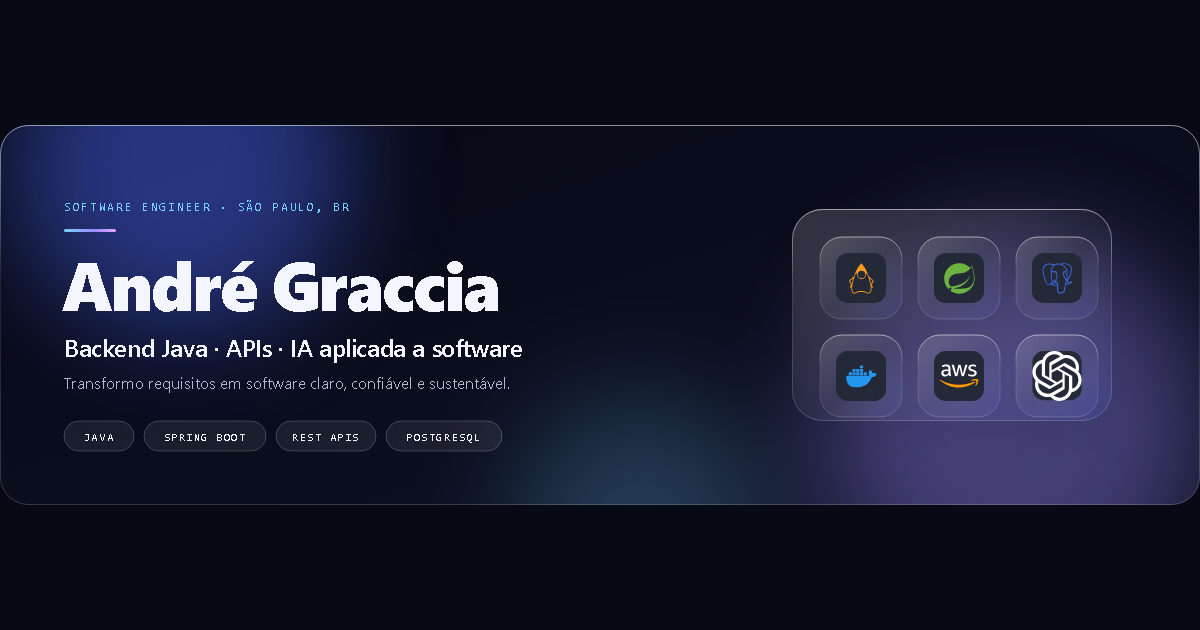
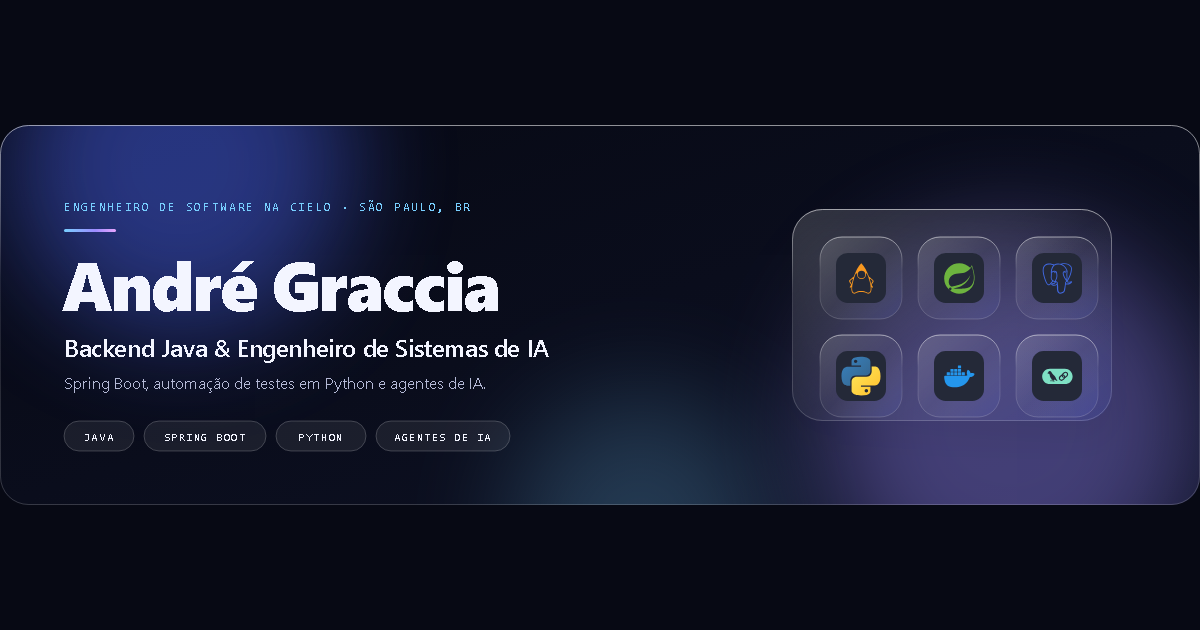
style(assets): hero e projetos alinhados ao currículo, imagem OG para compartilhamento

diff --git a/scripts/build_visuals.py b/scripts/build_visuals.py
@@ -53,20 +53,20 @@ def pill(x, y, text, w):
 
 def hero():
     W, H = 1200, 380
-    tags = [("JAVA", 70), ("SPRING BOOT", 122), ("REST APIS", 100), ("POSTGRESQL", 116)]
+    tags = [("JAVA", 70), ("SPRING BOOT", 122), ("PYTHON", 90), ("AGENTES DE IA", 134)]
     x, pills = 64, []
     for t, w in tags:
         pills.append(pill(x, 296, t, w))
         x += w + 10
-    tiles = [("java", 0, 0), ("spring", 1, 0), ("postgresql", 2, 0), ("docker", 0, 1), ("aws", 1, 1), ("openai", 2, 1)]
+    tiles = [("java", 0, 0), ("spring", 1, 0), ("postgresql", 2, 0), ("python", 0, 1), ("docker", 1, 1), ("langchain", 2, 1)]
     ts = []
     for i, (n, c, r) in enumerate(tiles):
         tx, ty = 820 + c * 98, 112 + r * 98
         ts.append(f'<g class="fl" style="animation-delay:{-i*.9}s"><rect x="{tx}" y="{ty}" width="82" height="82" rx="22" fill="url(#glass)" stroke="url(#rim)"/>'
                   f'<image href="{icon(n)}" x="{tx+16}" y="{ty+16}" width="50" height="50"/></g>')
     return f'''<svg xmlns="http://www.w3.org/2000/svg" width="{W}" height="{H}" viewBox="0 0 {W} {H}" role="img" aria-labelledby="t d">
-<title id="t">André Graccia — Backend e engenharia de software</title>
-<desc id="d">Banner com nome, especialidade em backend Java e ícones das principais tecnologias.</desc>
+<title id="t">André Graccia — Desenvolvedor Backend Java e Engenheiro de IA</title>
+<desc id="d">Banner com nome, função e ícones das principais tecnologias.</desc>
 {STYLE}{DEFS}
 <clipPath id="c"><rect width="{W}" height="{H}" rx="28"/></clipPath>
 <g clip-path="url(#c)">
@@ -76,11 +76,11 @@ def hero():
 <circle class="b1" cx="640" cy="400" r="130" fill="{SKY}" opacity=".22" filter="url(#blur)"/>
 {pane(792, 84, 320, 212, 30)}
 {''.join(ts)}
-<text x="64" y="86" class="m" font-size="12" fill="{SKY}">SOFTWARE ENGINEER · SÃO PAULO, BR</text>
+<text x="64" y="86" class="m" font-size="12" fill="{SKY}">ENGENHEIRO DE SOFTWARE NA CIELO · SÃO PAULO, BR</text>
 <rect x="64" y="104" width="52" height="3" rx="1.5" fill="url(#acc)"/>
 <text x="62" y="186" font-size="68" font-weight="800" letter-spacing="-2.5" fill="{INK}">André Graccia</text>
-<text x="64" y="232" font-size="24" font-weight="600" letter-spacing="-.4" fill="{INK}">Backend Java · APIs · IA aplicada a software</text>
-<text x="64" y="264" font-size="16" fill="{MUTED}">Transformo requisitos em software claro, confiável e sustentável.</text>
+<text x="64" y="232" font-size="24" font-weight="600" letter-spacing="-.4" fill="{INK}">Backend Java &amp; Engenheiro de Sistemas de IA</text>
+<text x="64" y="264" font-size="16" fill="{MUTED}">Spring Boot, automação de testes em Python e agentes de IA.</text>
 {''.join(pills)}
 </g>
 <rect x=".5" y=".5" width="{W-1}" height="{H-1}" rx="28" fill="none" stroke="url(#rim)"/>
@@ -89,9 +89,9 @@ def hero():
 
 
 PROJECTS = [
-    ("01", "Calculadora de Juros", "BACKEND · FINANCIAL API", ["API para simular juros simples e", "compostos, com regras de domínio explícitas."], ["java", "spring", "maven"], SKY),
-    ("02", "Wall.ia", "FINTECH · CONCEPT", ["Carteira digital que organiza compromissos", "financeiros e explica a composição dos valores."], ["react", "spring", "postgresql"], VIOLET),
-    ("03", "Orbit.ia", "AI · AUTOMATION", ["Agente pessoal com interface própria e", "workflows orquestrados pelo n8n."], ["react", "n8n", "docker"], "#E8A6FF"),
+    ("01", "Orbit.IA", "2026 · AGENTES DE IA", ["Orquestrador de agentes com React/Vite,", "n8n, LangChain e OpenRouter."], ["react", "n8n", "langchain"], "#E8A6FF"),
+    ("02", "wall.ia", "2025 · FULL-STACK", ["Gestão financeira em Java 17 e Spring Boot,", "com JWT e PostgreSQL em Docker."], ["java", "spring", "postgresql"], VIOLET),
+    ("03", "Calculadora de Juros", "2025 · APIS OFICIAIS", ["Serviço Java integrado às APIs do Banco", "Central: Selic, IPCA e CDI em tempo real."], ["java", "spring", "maven"], SKY),
 ]
 
 
